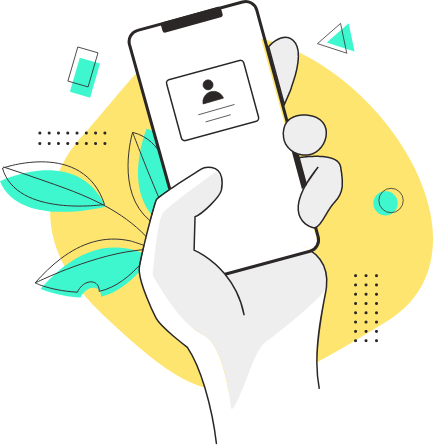
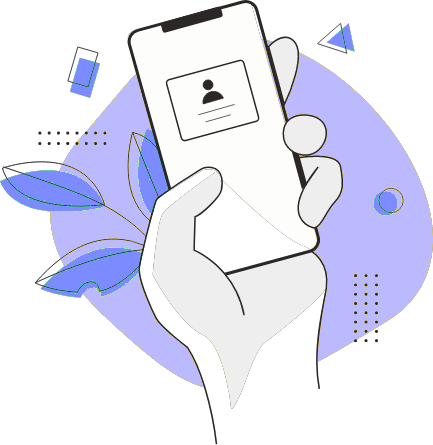
UI for 80% done

diff --git a/lib/components/home_screen/discovered_users.dart b/lib/components/home_screen/discovered_users.dart
@@ -1,5 +1,6 @@
 import 'package:flutter/material.dart';
 import 'package:near_chat/utils/constants.dart';
+// import 'package:near_chat/utils/constants.dart';
 
 class DiscoveredUser extends StatefulWidget {
   final String userID;
@@ -20,37 +21,58 @@ class DiscoveredUser extends StatefulWidget {
 class _DiscoveredUserState extends State<DiscoveredUser> {
   @override
   Widget build(BuildContext context) {
-    return Container(
-      decoration: BoxDecoration(color: widget.darkShade ? kDarkGrey : kGrey),
-      padding: EdgeInsets.all(8.0),
-      child: FlatButton(
-        child: Row(
-          mainAxisAlignment: MainAxisAlignment.spaceBetween,
-          children: [
-            Row(
+    return FlatButton(
+      padding: EdgeInsets.all(0.0),
+      child: Padding(
+        padding: EdgeInsets.fromLTRB(8.0, 3.5, 8.0, 3.0),
+        child: Container(
+          decoration: BoxDecoration(
+            color: kWhite,
+            border: Border.all(
+              color: kPrimaryColour,
+              width: 2.0,
+            ),
+            boxShadow: [
+              BoxShadow(
+                color: kPrimaryColour,
+                blurRadius: 5.0,
+              )
+            ],
+            borderRadius: BorderRadius.circular(5),
+          ),
+          child: Padding(
+            padding: EdgeInsets.fromLTRB(10.0, 10.0, 10.0, 10.0),
+            child: Row(
+              mainAxisAlignment: MainAxisAlignment.spaceBetween,
               children: [
-                CircleAvatar(
-                  child: Text('${widget.userName[0]}'),
+                Row(
+                  children: [
+                    CircleAvatar(
+                      backgroundColor: kRed,
+                      child: Text(widget.userName[0],
+                          style: TextStyle(color: kDarkGrey)),
+                    ),
+                    SizedBox(
+                      width: 5.0,
+                    ),
+                    Text(
+                      widget.userName,
+                      style: TextStyle(
+                        color: kDarkGrey,
+                        fontWeight: FontWeight.bold,
+                      ),
+                    ),
+                  ],
                 ),
-                Padding(
-                  padding: EdgeInsets.symmetric(horizontal: 5.0),
-                ),
-                Text(
-                  '${widget.userName}',
-                  style: TextStyle(color: kPrimaryColour),
-                ),
+                Text('User ID: ${widget.userID}')
               ],
             ),
-            Text(
-              'User ID: ${widget.userID}',
-              style: TextStyle(color: kPrimaryColour),
-            ),
-          ],
+          ),
         ),
-        onPressed: () {
-          widget.handleRequest(widget.userID);
-        },
       ),
+      onPressed: () {
+        widget.handleRequest(widget.userID);
+      },
     );
   }
 }

diff --git a/lib/components/general/navigation_drawer.dart b/lib/components/general/navigation_drawer.dart
@@ -36,7 +36,11 @@ class _NavigationDrawerState extends State<NavigationDrawer> {
                   ),
                 ),
               ),
-              decoration: BoxDecoration(color: kSecondaryColour),
+              decoration: BoxDecoration(
+                gradient: LinearGradient(
+                begin: Alignment.topRight,
+                end: Alignment.bottomLeft,
+                colors: [kSecondaryColour, kPrimaryColour])),
               margin: EdgeInsets.all(0.0),
               padding: EdgeInsets.all(10.0),
             ),
@@ -46,15 +50,12 @@ class _NavigationDrawerState extends State<NavigationDrawer> {
               children: [
                 Icon(Icons.home),
                 SizedBox(
-                  width: 5.0,
+                  width: 3.0,
                 ),
                 Text('Home'),
               ],
             ),
             onTap: () {
-              // Update the state of the app
-              // ...
-              // Then close the drawer
               Navigator.popAndPushNamed(context, '/home');
             },
           ),
@@ -64,15 +65,12 @@ class _NavigationDrawerState extends State<NavigationDrawer> {
               children: [
                 Icon(Icons.help_outline),
                 SizedBox(
-                  width: 5.0,
+                  width: 3.0,
                 ),
                 Text('How to Use?'),
               ],
             ),
             onTap: () {
-              // Update the state of the app
-              // ...
-              // Then close the drawer
               Navigator.popAndPushNamed(context, '/help');
             },
           ),
@@ -82,7 +80,7 @@ class _NavigationDrawerState extends State<NavigationDrawer> {
               children: [
                 Icon(Icons.logout),
                 SizedBox(
-                  width: 5.0,
+                  width: 3.0,
                 ),
                 Text('Logout'),
               ],

diff --git a/lib/views/main/home_screen.dart b/lib/views/main/home_screen.dart
@@ -1,6 +1,7 @@
 import 'package:flutter/material.dart';
 import 'package:hive/hive.dart';
 import 'package:nearby_connections/nearby_connections.dart';
+import 'package:gradient_app_bar/gradient_app_bar.dart';
 
 import 'package:near_chat/components/home_screen/bottom_button.dart';
 import 'package:near_chat/components/home_screen/connection_alert.dart';
@@ -20,14 +21,7 @@ class _HomeScreenState extends State<HomeScreen> {
   String username;
 
   String connectedTo = 'None';
-  List<DiscoveredUser> usersDiscovered = [
-    DiscoveredUser(
-      userID: 'DUMMY',
-      userName: 'DUMMY',
-      handleRequest: () {},
-      darkShade: false,
-    )
-  ];
+  List<DiscoveredUser> usersDiscovered = [];
 
   bool isAdvertising = false;
   bool isDiscovering = false;
@@ -45,9 +39,15 @@ class _HomeScreenState extends State<HomeScreen> {
     return Scaffold(
       drawer: NavigationDrawer(),
       key: _scaffoldKey,
-      appBar: AppBar(
-        title: Text(username),
+      appBar: GradientAppBar(
+        title: Text(
+          'Near Chat Users',
+          style: TextStyle(fontStyle: FontStyle.italic),
+        ),
+        backgroundColorStart: kPrimaryColour,
+        backgroundColorEnd: kSecondaryColour,
       ),
+      backgroundColor: kBackgroundChat,
       body: usersDiscovered.length < 1
           ? Column(
               mainAxisAlignment: MainAxisAlignment.center,

diff --git a/lib/views/main/help_screen.dart b/lib/views/main/help_screen.dart
@@ -2,14 +2,18 @@ import 'package:flutter/material.dart';
 
 import 'package:near_chat/components/general/navigation_drawer.dart';
 import 'package:near_chat/utils/constants.dart';
+import 'package:gradient_app_bar/gradient_app_bar.dart';
 
 class HelpScreen extends StatelessWidget {
   @override
   Widget build(BuildContext context) {
     return Scaffold(
+      backgroundColor: kBackgroundChat,
       drawer: NavigationDrawer(),
-      appBar: AppBar(
-        title: Text('How to Use?'),
+      appBar: GradientAppBar(
+        title: Text('Flutter'),
+        backgroundColorEnd: kPrimaryColour,
+        backgroundColorStart: kSecondaryColour,
       ),
       body: ListView(
         children: [
@@ -51,11 +55,19 @@ class HelpInfo extends StatelessWidget {
     return Padding(
       padding: EdgeInsets.all(8.0),
       child: Container(
+        
         decoration: BoxDecoration(
+          color: kWhite,
           border: Border.all(
             color: Colors.black,
             width: 2.0,
           ),
+          boxShadow: [
+            BoxShadow(
+              color: kPrimaryColour,
+              blurRadius: 5.0,
+            ),
+          ],
           borderRadius: BorderRadius.circular(12),
         ),
         child: Padding(

diff --git a/lib/views/chat/chat_room.dart b/lib/views/chat/chat_room.dart
@@ -50,14 +50,14 @@ class ChatWindow extends State<ChatRoom> with TickerProviderStateMixin {
     return Scaffold(
       backgroundColor: kWhite,
       appBar: AppBar(
-        backgroundColor: kGrey,
+        backgroundColor: kChatRoomBackground,
         bottomOpacity: 0.0,
         title: Row(
           mainAxisAlignment: MainAxisAlignment.start,
           children: [
             CircleAvatar(
-              backgroundColor: kPrimaryColour,
-              foregroundColor: kGrey,
+              backgroundColor: kWhite,
+              foregroundColor: kChatRoomBackground,
               radius: 15.0,
               child: Text(
                 "${widget.endpointName[0].toUpperCase()}",
@@ -66,7 +66,7 @@ class ChatWindow extends State<ChatRoom> with TickerProviderStateMixin {
             SizedBox(width: 10.0),
             Text(
               "${widget.endpointName}",
-              style: TextStyle(fontSize: 25.0, color: kPrimaryColour),
+              style: TextStyle(fontSize: 25.0, color: kWhite),
             ),
           ],
         ),

diff --git a/lib/components/home_screen/bottom_button.dart b/lib/components/home_screen/bottom_button.dart
@@ -36,7 +36,7 @@ class _BottomControlButtonState extends State<BottomControlButton> {
                   ? widget.enableIcon
                   : widget.disableIcon,
               color:
-                  widget.isEnabled == null || widget.isEnabled ? kWhite : kGrey,
+                  widget.isEnabled == null || widget.isEnabled ? kWhite : kDarkGrey,
             ),
             onPressed: () {
               if (widget.isEnabled == null) {
@@ -52,7 +52,7 @@ class _BottomControlButtonState extends State<BottomControlButton> {
             '${widget.name}',
             style: TextStyle(
               color:
-                  widget.isEnabled == null || widget.isEnabled ? kWhite : kGrey,
+                  widget.isEnabled == null || widget.isEnabled ? kWhite : kDarkGrey,
             ),
           ),
         ],

diff --git a/lib/components/chat_room/message_input.dart b/lib/components/chat_room/message_input.dart
@@ -36,7 +36,7 @@ class MessageInput extends StatelessWidget {
               maxLines: 5,
               decoration: InputDecoration(
                 hintText: 'Say Something...',
-                hintStyle: TextStyle(color: kGrey),
+                hintStyle: TextStyle(color: kChatRoomBackground),
                 contentPadding:
                     EdgeInsets.symmetric(vertical: 10.0, horizontal: 10.0),
                 enabledBorder: OutlineInputBorder(
@@ -52,7 +52,7 @@ class MessageInput extends StatelessWidget {
             icon: Icon(
               Icons.send,
               size: 30,
-              color: kGrey,
+              color: kChatRoomBackground,
             ),
             onPressed: () {
               onSend(editingController.text);

diff --git a/lib/utils/constants.dart b/lib/utils/constants.dart
@@ -1,13 +1,14 @@
 import 'package:flutter/material.dart';
 
-const kPrimaryColour = Color(0xfff8be3c);
-const kSecondaryColour = Color(0xff5dbcd2);
+const kPrimaryColour = Color(0xffbbbaff);
+const kSecondaryColour = Color(0xff7c8bff);
 const kBlack = Color(0xff040404);
-const kGrey = Color(0xff616161);
+const kGrey = Color(0xffede6df);
 const kDarkGrey = Color(0xff424242);
-const kBackgroundChat = Color(0xfff9a825);
+const kBackgroundChat = Color(0xffdaf0ee);
 const kWhite = Color(0xffe7ebe6);
 const kGreen = Colors.greenAccent;
-const kRed = Colors.redAccent;
+const kRed = Color(0xffef9a9a);
+const kChatRoomBackground = Color(0xff6891c3);
 
 const kBubbleRadius = 10.0;

diff --git a/lib/views/main/welcome_screen.dart b/lib/views/main/welcome_screen.dart
@@ -36,7 +36,7 @@ class WelcomeScreen extends StatelessWidget {
                       Text(
                         "Chat with people in your vicinity!",
                         textAlign: TextAlign.center,
-                        style: TextStyle(color: kGrey, fontSize: 15),
+                        style: TextStyle(color: kDarkGrey, fontSize: 15),
                       ),
                     ),
                   ],
